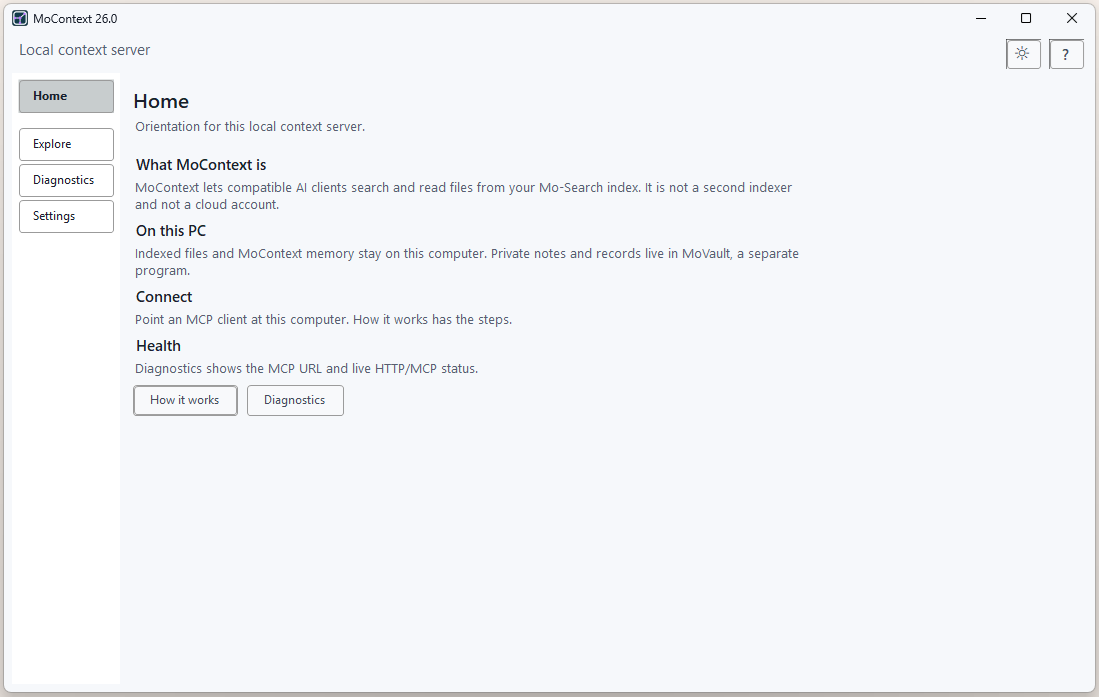
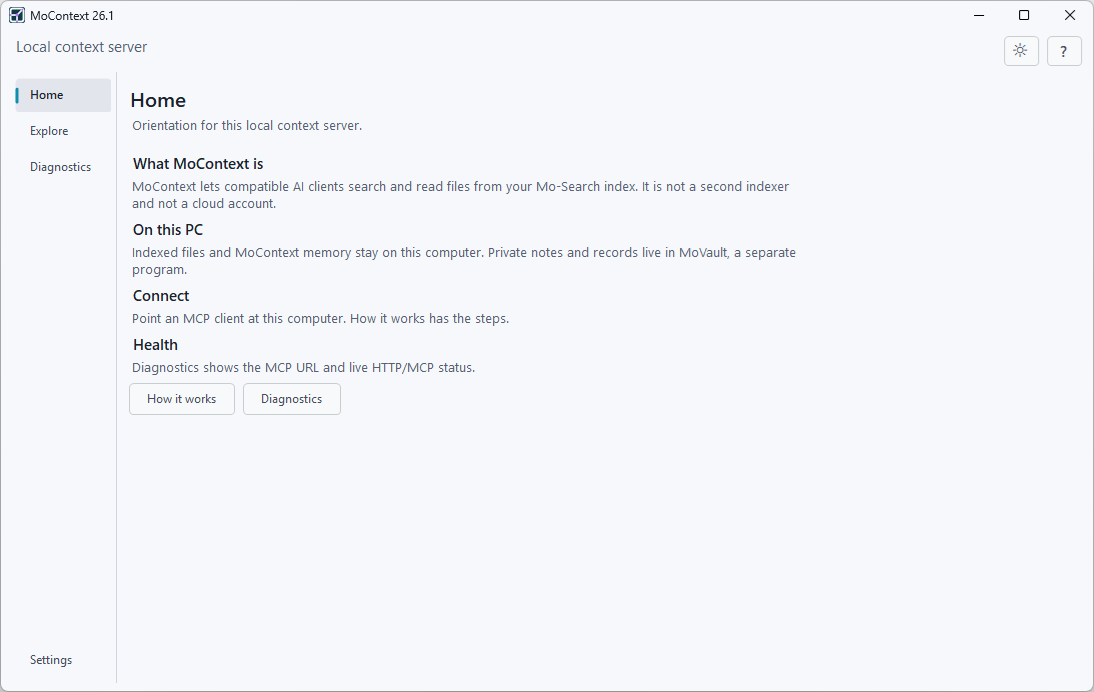
Publish Meauxsoft/mocontext documentation (Mo-Search 26.1)

Changed region(s): [[0.0, 0.0, 1.0, 1.0], [0.6216, 0.3338, 0.7148, 0.3945], [0.6216, 0.2428, 0.7148, 0.2731]]

diff --git a/README.md b/README.md
@@ -1,27 +1,27 @@
 # MoContext
 
-> Documentation baseline: Mo-Search/MoContext 26.0, the current public
+> Documentation baseline: Mo-Search/MoContext 26.1, the current public
 > release.
 
 **Give your AI agent full-text search over the files you index on your Windows
 computer.**
 
-MoContext is a local [MCP](https://modelcontextprotocol.io) server that exposes
-the [Mo-Search](https://www.meauxsoft.com) desktop search index to AI agents.
+MoContext is a local [MCP](https://modelcontextprotocol.io) server that shares
+the [Mo-Search](https://www.meauxsoft.com) desktop search index with AI agents.
 Mo-Search has been indexing Windows machines since 2005 — millions of files,
 full text, ranked results in milliseconds. MoContext puts that index behind 15
-MCP tools so Codex, Claude Code, Cursor, Windsurf, VS Code, or another
+MCP tools so Codex, Claude Code, Cursor, Devin, VS Code, or another
 compatible MCP client can find and read indexed files — plus keep durable,
 human-editable session memory.
 
-![MoContext 26.0 local context server](media/mocontext-dark.png)
+![MoContext 26.1 local context server](media/mocontext-dark.png)
 
-The screenshot above is the MoContext 26.0 local context server. A workflow GIF
+The screenshot above is the MoContext 26.1 local context server. A workflow GIF
 is planned for a later release.
 
 ## Why
 
-- **The index already exists.** Mo-Search users have a continuously updated
+- **The index already exists.** Mo-Search provides the user with a fast
   full-text index of their entire machine. MoContext is a read-mostly MCP layer
   over it — no separate crawler, no re-indexing, no embedding pipeline.
 - **Beyond one repo.** Your agent can answer "where did I handle this before?"
@@ -37,25 +37,88 @@ is planned for a later release.
 ## Quick start
 
 1. **Install [Mo-Search](https://www.meauxsoft.com)** (Windows 10/11).
-   MoContext is currently included in the same installer and starts
-   automatically.
+   MoContext is included in the same installer. Tick its box on the installer's
+   finish page, or turn it on in Mo-Search's settings, then finish its short
+   setup.
 2. **Connect your client** to `http://127.0.0.1:43210/mcp`:
 
-**Codex**
+The [guided setup helper](https://www.meauxsoft.com/MoContext.html#connect)
+lets you select your editor or assistant and shows the matching steps. Use
+Reset there to configure another client. The examples below also work directly.
+
+MoContext must be running on the same Windows PC as your client. The extension
+setup paths below need neither Node.js nor a separately installed client CLI.
+
+**Codex extension for VS Code**
+
+1. Open the Codex panel's gear menu, then **Codex Settings > Open config.toml**.
+   This opens your user configuration (`%USERPROFILE%\.codex\config.toml`
+   on Windows).
+2. Add the following section, preserving existing settings. If a
+   `[mcp_servers.mocontext]` section already exists, update it instead of
+   adding a duplicate:
+
+```toml
+[mcp_servers.mocontext]
+url = "http://127.0.0.1:43210/mcp"
+```
+
+3. Save, run **Developer: Reload Window** from the VS Code Command Palette
+   (`Ctrl+Shift+P`), and start a new Codex conversation.
+4. Ask: **Use MoContext to get the server summary.**
+
+[Official Codex configuration instructions](https://learn.chatgpt.com/docs/config-file/config-basic)
+and [MCP documentation](https://learn.chatgpt.com/docs/extend/mcp).
+
+If you already have the **Codex CLI** installed, you can use this alternative:
 
 ```
 codex mcp add mocontext --url http://127.0.0.1:43210/mcp
 ```
 
-[Official Codex MCP documentation](https://developers.openai.com/codex/concepts/customization#mcp)
+**Claude Code extension for VS Code**
 
-**Claude Code**
+In extension version **2.1.261 or later**, type `/mcp` in the Claude chat
+panel, choose to add a server, and enter:
+
+- Name: `mocontext`
+- Transport: HTTP
+- URL: `http://127.0.0.1:43210/mcp`
+- Scope: user, to make it available across your projects on this PC
+
+Save, then ask: **Use MoContext to get the server summary.** The extension
+bundles the runtime it needs; a separate `claude` terminal command is optional.
+
+For a manual project setup, including older extensions, create `.mcp.json`
+in the root of the project folder open in VS Code. If the file already exists,
+merge the `mocontext` entry into its existing `mcpServers` object:
+
+```json
+{
+  "mcpServers": {
+    "mocontext": {
+      "type": "http",
+      "url": "http://127.0.0.1:43210/mcp"
+    }
+  }
+}
+```
+
+Save, run **Developer: Reload Window**, start a new Claude conversation, and
+approve the project server when prompted. Use `/mcp` to check its connection,
+then ask for the server summary. This file configures this project; repeat in
+other projects if needed. Claude Code uses `.mcp.json` at the project root,
+whereas VS Code's Copilot integration uses `.vscode/mcp.json`.
+
+[Official Claude Code extension instructions](https://code.claude.com/docs/en/vs-code#connect-to-external-tools-with-mcp)
+and [MCP configuration and scopes](https://code.claude.com/docs/en/mcp).
+
+If you already have the **Claude Code CLI** installed, you can use this
+alternative (user scope makes it available across projects):
 
 ```
-claude mcp add --transport http mocontext http://127.0.0.1:43210/mcp
+claude mcp add --transport http --scope user mocontext http://127.0.0.1:43210/mcp
 ```
-
-[Official Claude Code MCP documentation](https://docs.anthropic.com/en/docs/claude-code/mcp)
 
 **Cursor** (`~/.cursor/mcp.json` or `.cursor/mcp.json` in a project)
 
@@ -63,9 +126,9 @@ claude mcp add --transport http mocontext http://127.0.0.1:43210/mcp
 { "mcpServers": { "mocontext": { "url": "http://127.0.0.1:43210/mcp" } } }
 ```
 
-[Official Cursor MCP documentation](https://docs.cursor.com/context/model-context-protocol)
+[Official Cursor MCP documentation](https://cursor.com/docs/context/mcp)
 
-**VS Code** (`.vscode/mcp.json`)
+**GitHub Copilot in VS Code** (`.vscode/mcp.json`)
 
 ```json
 { "servers": { "mocontext": { "type": "http", "url": "http://127.0.0.1:43210/mcp" } } }
@@ -73,13 +136,14 @@ claude mcp add --transport http mocontext http://127.0.0.1:43210/mcp
 
 [Official VS Code MCP configuration reference](https://code.visualstudio.com/docs/agents/reference/mcp-configuration)
 
-**Windsurf** (`~/.codeium/windsurf/mcp_config.json`)
+**Devin Desktop** (`%APPDATA%\devin\mcp_config.json`)
 
 ```json
-{ "mcpServers": { "mocontext": { "serverUrl": "http://127.0.0.1:43210/mcp" } } }
+{ "mcpServers": { "mocontext": { "url": "http://127.0.0.1:43210/mcp" } } }
 ```
 
-[Official Windsurf MCP documentation](https://docs.windsurf.com/windsurf/cascade/mcp)
+[Official Devin Desktop MCP documentation](https://docs.devin.ai/desktop/cascade/mcp)
+and [configuration format](https://docs.devin.ai/cli/extensibility/mcp/configuration.md).
 
 These examples follow the current client configuration formats. Client
 features and configuration locations can change, so also consult the client's
@@ -90,6 +154,16 @@ supported local Desktop extension is a separate future task.
 3. **Try it** — ask your agent:
 
 > Use MoContext to find where I configured SMTP settings, anywhere on this machine.
+
+## Choose what your AI can reach
+
+MoContext Settings has two access profiles, so you can limit one AI to a folder
+while another sees your whole index:
+
+- **Folder:** when a folder is set, the address above is limited to that folder.
+- **Whole index:** uses the other address, shown only in MoContext Settings.
+
+Session memory and activity stay available on both.
 
 ## The tools
 
@@ -186,10 +260,9 @@ client/model stack that runs locally. See [PRIVACY.md](PRIVACY.md).
 
 The documentation in this repository is licensed [CC BY 4.0](LICENSE.md).
 Mo-Search and MoContext are proprietary software. MoContext is currently
-included with Mo-Search at no additional charge; see the current product page
+included with Mo-Search; see the current product page
 and [LICENSE.md](LICENSE.md) for availability and terms. The Mo-Search license
-is $50 for 365 days. MoVault is coming soon and is not a download from this
-repository.
+is $50 for 365 days and currently covers Mo-Search, MoContext and MoVault.
 
 ---
 

diff --git a/docs/ai-usage.md b/docs/ai-usage.md
@@ -32,7 +32,7 @@ If the client exposes MoContext resources, useful entry points are:
 - `mocontext://recent-activity` - recent continuity notes with default limits.
 - `mocontext://docs/ai-usage` - this installed AI usage guide.
 - `mocontext://docs/human-prompt` - the human-facing session starter prompt.
-- `mocontext://docs/human` - human guide with copyable custom-instructions/session prompts and a technical appendix.
+- `mocontext://docs/human` - the human guide (MoContext 26.0 installs it in full; from 26.1 it is a short pointer to https://www.meauxsoft.com/MoContext_Human.html). The copyable prompt is `mocontext://docs/human-prompt`.
 - `mocontext://memory/readme` - guidance for durable MoContext memory files.
 
 If the client exposes only tools, `get_server_summary` plus `get_usage_guide` give the same high-level orientation.
@@ -128,16 +128,25 @@ Use `get_evidence_pack`. This is the primary retrieval tool - call it whenever y
 
 **Key parameters:**
 - **`query`** (required) - search terms.
-- **`mode`** - `"keyword"` (default, OR), `"all"` (AND), or `"phrase"` (literal match).
+- **`mode`** - `"keyword"` (any word), `"all"` (every word), or `"phrase"` (literal match). These three work on every MoContext version. From 26.1, `"any"` is the new name for `"keyword"` (both are accepted) and the default changes from `keyword` to `all`, so pass `mode` explicitly when it matters.
 - **`working_dir`** - your current working directory (absolute path). Recommended on every retrieval call; results are scoped to files under it and the response echoes `scope_applied`. Omit it to search all indexed roots - do this when scoped results are empty or the user asks about files outside the project. Also supported by `find_files`.
 - **`path_filter`** - substring filter on file paths (e.g. `"mobase"`).
 - **`filename`** - substring filter on filenames (e.g. `".cpp"` or `"Program"`).
 - **`max_files`**, **`max_windows_per_file`**, **`context_lines`** - budget controls.
 
 **Search mode guidance:**
-- **`keyword`** - almost always the right starting point. OR semantics across terms.
-- **`all`** - every term must appear in the same file. Very restrictive. Use only when you know several identifiers co-occur.
-- **`phrase`** - literal string match. Best for error messages or exact fragments. Note: the tokenizer splits on dots and hyphens, so `MoContext.Server.exe` becomes three tokens. Use `keyword` for dotted identifiers.
+- **`keyword`** (26.1 name: `any`) - at least one word. Use it for breadth or alternative spellings; it is the safe starting point on any version. From 26.1, files containing more of the words rank first.
+- **`all`** - every word must appear in the same file, like a MoSearch search. From 26.1 it is the default, and if no file has them all, MoContext falls back to `any` once and says so: `mode_applied: "any"` and `fallback: "no_file_has_all_words"`. On 26.0 an `all` search with no match returns nothing; retry with `keyword`.
+- **`phrase`** - literal string match. Best for error messages or exact fragments. The phrase's words narrow the candidates first, then each file's text is checked for the literal phrase.
+
+**How query words are broken.** MoContext looks up the same words MoSearch writes to its index:
+- A dotted name is indexed whole and by its parts: `MoContext.Server.exe` gives `mocontext.server.exe`, `mocontext`, `server`, and `exe`. Searching the whole name or any part finds the file, in every mode.
+- Letters, digits, `.`, `_`, `'`, and `@` are word characters; anything else (including hyphens and non-ASCII characters) separates words. `snake_case_name` and `user@domain.com` are words (`user@domain.com` is also indexed as `user`, `domain`, and `com`).
+- Periods at the start or end are trimmed (`word.` is `word`, `.net` is `net`). Two or more periods in a row split the word into its parts (`word1..word2` is `word1` and `word2`).
+- `don't` is one word (also indexed as `don`); quotes around a word are trimmed.
+- From 26.1, noise words (`the`, `then`, `and`, `with`, ...) and 1-character words are never indexed, so they are not searched. The response lists them in `ignored_words` (for example `"then (noise word)"`; null when none). In `all` or `any` mode, a query made only of such words is rejected with an error that names them.
+
+From 26.1, each result also carries `terms_matched` and `terms_total` (how many of the query's distinct words that file contains, out of how many the query has; null for `phrase`). `total_files_matched` counts the index matches before disk checks (26.0 counts the files that qualified after filtering).
 
 **Best practice:** Pass `working_dir`, then combine `path_filter` and `filename` to narrow further. Without scoping, common terms match across the entire indexed codebase.
 
@@ -162,7 +171,7 @@ Use `get_evidence_pack`. This is the primary retrieval tool - call it whenever y
 
 Use `find_files` - the one tool for file discovery. Its behavior follows from the parameters you pass:
 
-- **With `query`** - ranked keyword/phrase search against the MoSearch index. Returns file paths with rank; no snippets. Good for choosing which file to drill into before `get_evidence_pack` or `read_file`.
+- **With `query`** - ranked search against the MoSearch index, with the same `mode` values as `get_evidence_pack` (from 26.1 also the same default, fallback, and `terms_matched`). Returns file paths with rank; no snippets. `total_files_matched` is the index match count inside the access profile and `working_dir` (the same figure evidence packs use), not a cap of 250 candidates. Good for choosing which file to drill into before `get_evidence_pack` or `read_file`.
 - **Without `query`** - lists recently indexed files in index-recency order. Good for session-start project discovery; no keywords required.
 - **With `hot_hours` and/or `warm_days` (and no `query`)** - returns the `UriHistory` working-set grouping instead: `hot` (recently indexed within `hot_hours`, default 24) and `warm` (within `warm_days`, default 7 days, deduped against hot). Entries carry path, change count, first/last indexed time, size, and mod generation - metadata only, never file contents.
 
@@ -355,8 +364,8 @@ You can request fewer than the defaults but not more.
 
 - Cannot read PDF, DOCX, XLS, or other binary formats - returns `content_unavailable: "unsupported_loader"`.
 - Certain file formats are indexed by path only - returns `content_unavailable: "path_only"`.
-- No semantic / embedding-based search - retrieval is keyword/phrase/AND against the MoSearch word index.
-- Tokenizer splits on dots - `MoContext.Server.exe` is three words. Use `keyword` mode for dotted identifiers.
+- No semantic / embedding-based search - retrieval is any-word / all-words / phrase against the MoSearch word index.
+- Words are broken as MoSearch indexes them (see "How query words are broken"); there are no wildcards or search operators.
 - May only search files indexed by MoSearch.
 - `LoadContext <keyword>` depends on MoSearch indexing the digest Markdown; immediately saved or hand-edited digests may need a brief AutoIndexer moment before keyword search sees them.
 - `LoadContext` responses may be truncated by `max_chars`; use omitted counts to decide whether to narrow by keyword or fetch a specific digest by id.

diff --git a/docs/troubleshooting.md b/docs/troubleshooting.md
@@ -5,8 +5,8 @@
 - **Is MoContext running?** Look for the MoContext tray icon, or open
   <http://127.0.0.1:43210/v1/health> in a browser. A JSON response means the
   server is up.
-- **Not running?** Start Mo-Search (MoContext starts with it), or launch
-  `MoContext.Server.exe` from the Mo-Search install folder
+- **Not running?** Turn it on in Mo-Search's settings, start MoContext from the
+  Start Menu, or launch `MoContext.Server.exe` from the Mo-Search install folder
   (`...\Meauxsoft\Mo-Search...\MoContext\`).
 - **Port conflict**: MoContext uses port `43210` on `127.0.0.1`. If another
   process holds it, `/v1/health` will fail; free the port and restart.
@@ -17,6 +17,8 @@
   Mo-Search and check which folders/drives are included in the index.
 - A brand-new install may still be building its first index — check
   `get_health` → `index.newest_indexed_at` for recency.
+- If a folder is set in MoContext Settings, the normal address searches only that
+  folder. Use the Whole index address to search everything.
 - Scoped searches (`working_dir`) return nothing if the directory isn't under
   an indexed root; retry without `working_dir` before concluding a file
   doesn't exist.
@@ -40,7 +42,8 @@ indexing). When the flag is `true`, have the agent re-read the file with
 
 One of the two local databases is unreachable. `get_diagnostics` reports the
 exact paths. Most common cause: Mo-Search's index database is mid-rebuild —
-wait for indexing to finish.
+wait for indexing to finish. Until then, index searches answer "temporarily
+unavailable", while session memory and activity keep working.
 
 ## Still stuck?
 

diff --git a/CHANGELOG.md b/CHANGELOG.md
@@ -1,8 +1,18 @@
 # MoContext release history
 
-MoContext ships inside the Mo-Search installer and follows its release cycle, so these version numbers are Mo-Search versions. Only MoContext changes are listed; see the [Mo-Search changelog](https://github.com/Meauxsoft/mo-search/blob/main/CHANGELOG.md) for everything else. Documented through **26.0**.
+MoContext ships inside the Mo-Search installer and follows its release cycle, so these version numbers are Mo-Search versions. Only MoContext changes are listed; see the [Mo-Search changelog](https://github.com/Meauxsoft/mo-search/blob/main/CHANGELOG.md) for everything else. Documented through **26.1**.
 
 Generated from the Meauxsoft release history by `build-changelog.ps1`. Do not edit by hand.
+
+## 26.1 — 2026, Nov 7
+
+_MoVault arrives, better-ranked search, and folder limits for MoContext_
+
+- MoContext: New privacy controls limit which part of your index an AI can search and read. You can limit one AI to a folder while another sees your whole index.
+- MoContext: Searches are much faster on large indexes. Broad searches that could take tens of seconds now usually answer in under a second.
+- MoContext: Searches now default to all words and fall back to any word when no file has them all. Queries break words the way Mo-Search indexes them, and ignored words are reported.
+- MoContext: Is now available even when your search index is being built. Context requests are still serviced, even when your search indexing is unavailable due to building.
+- MoContext and MoVault: Improved UX, theming and layout.
 
 ## 26.0 — 2026, Sep 21
 

diff --git a/media/README.md b/media/README.md
@@ -4,8 +4,8 @@ Screenshots used by the MoContext documentation in this repository.
 
 | File | Shows |
 |---|---|
-| `mocontext-dark.png` | MoContext 26.0 local context server, dark mode |
-| `mocontext-light.png` | MoContext 26.0 local context server, light mode |
+| `mocontext-dark.png` | MoContext 26.1 local context server, dark mode |
+| `mocontext-light.png` | MoContext 26.1 local context server, light mode |
 
 These images are part of the repository documentation and are covered by
 [LICENSE.md](../LICENSE.md).

diff --git a/docs/rest-api-examples.md b/docs/rest-api-examples.md
@@ -41,7 +41,7 @@ Invoke-RestMethod -Method Post http://127.0.0.1:43210/v1/context/evidence-pack `
   -ContentType 'application/json' `
   -Body (@{
     query     = 'session token validation'
-    mode      = 'keyword'   # keyword | phrase | all
+    mode      = 'all'       # all (default) | any | phrase
     max_files = 5
   } | ConvertTo-Json)
 ```
